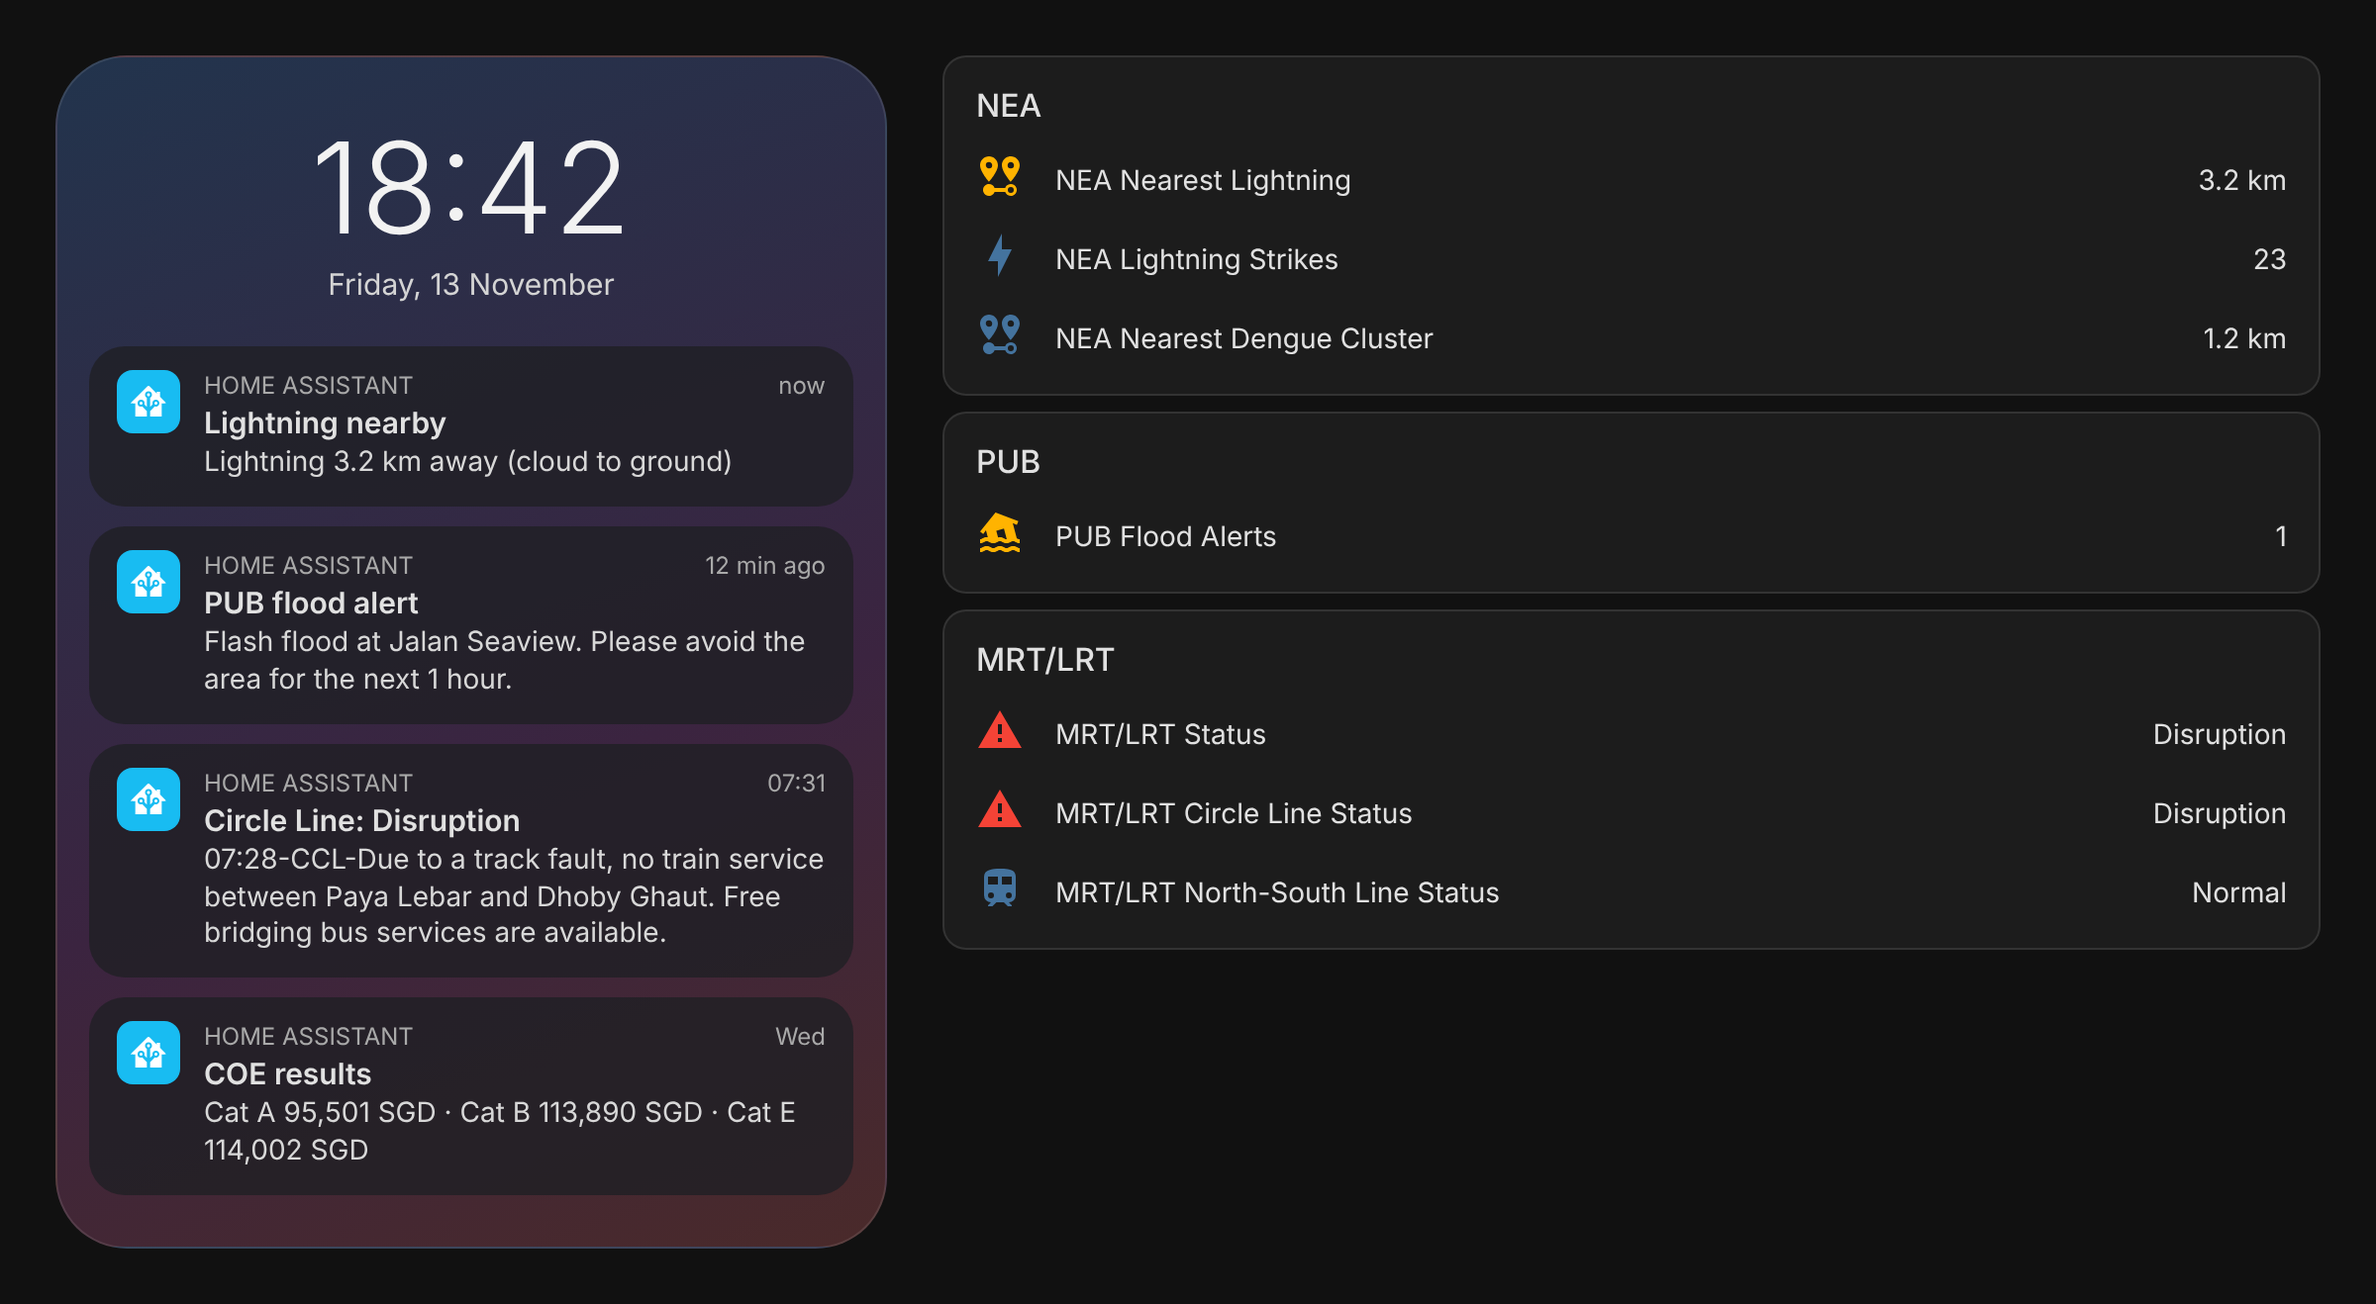
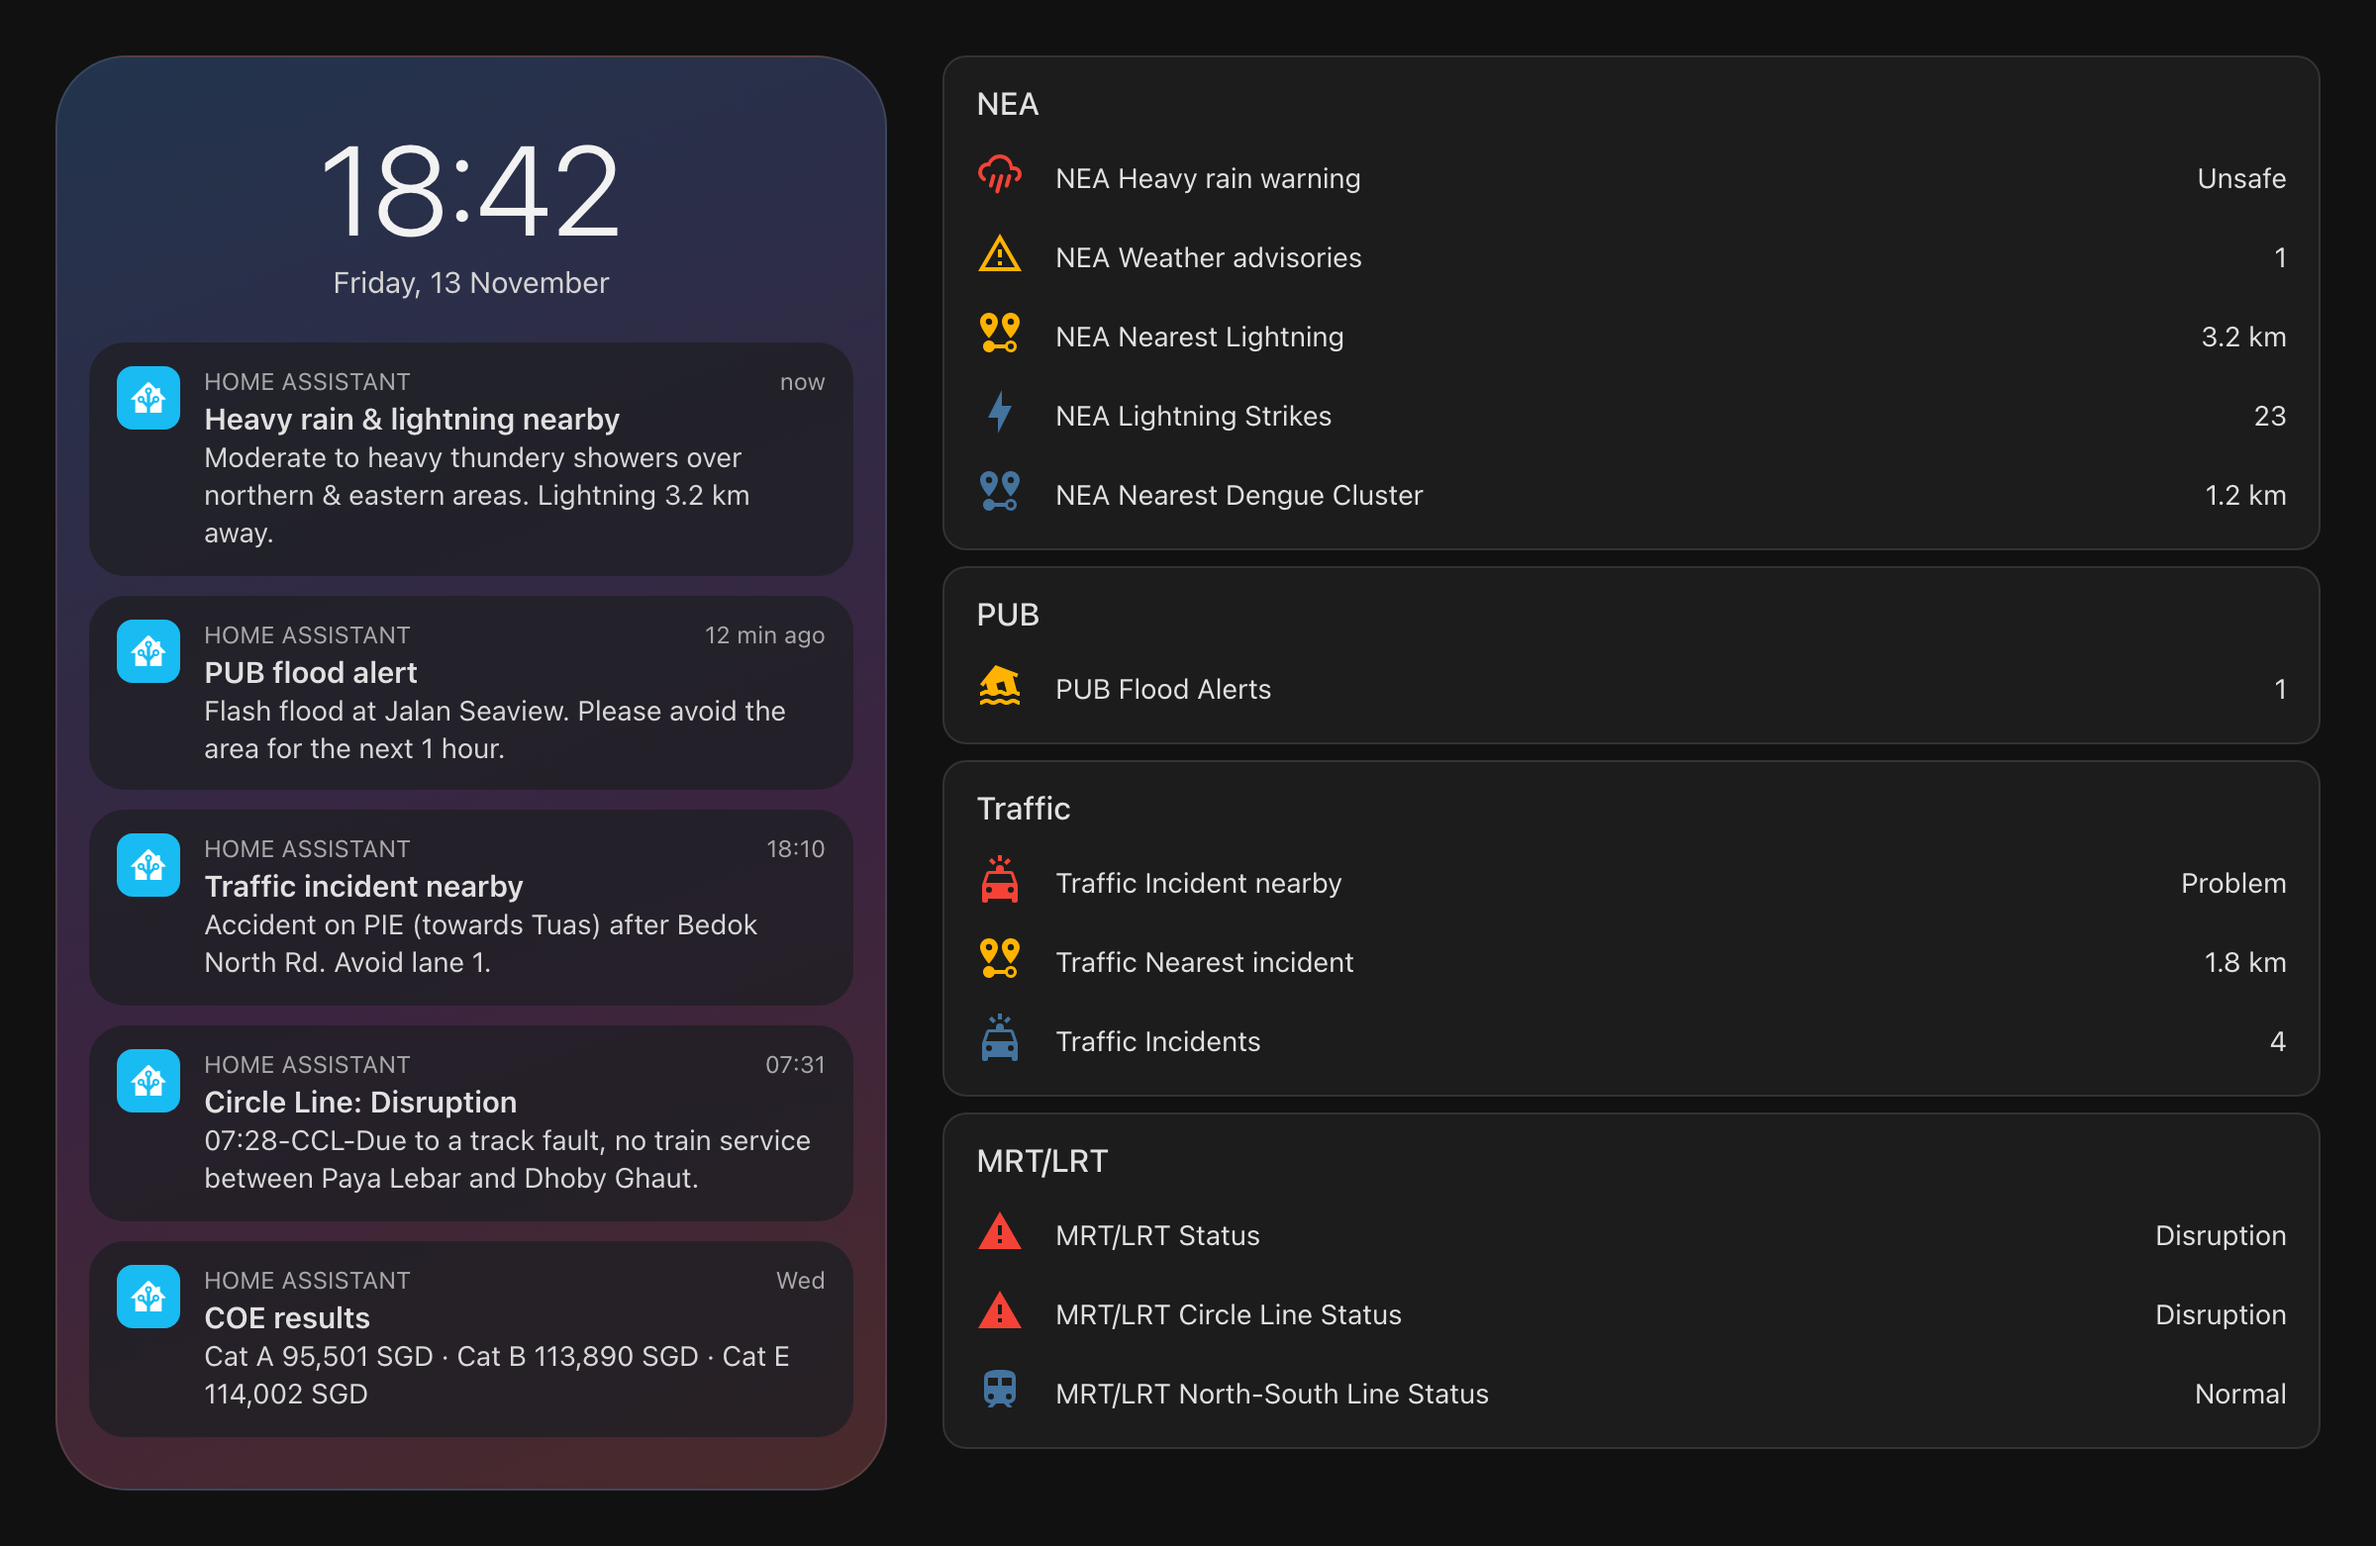
docs: add heavy rain warning, advisories, tide level and traffic incidents to README screenshots

diff --git a/docs/mockups/alerts.html b/docs/mockups/alerts.html
@@ -22,13 +22,16 @@
     <div class="date">Friday, 13 November</div>
     <div class="note"><span class="app"><i m="mdiHomeAssistant"></i></span><div style="flex:1">
       <div class="top"><span>HOME ASSISTANT</span><span>now</span></div>
-      <b>Lightning nearby</b><p>Lightning 3.2 km away (cloud to ground)</p></div></div>
+      <b>Heavy rain &amp; lightning nearby</b><p>Moderate to heavy thundery showers over northern &amp; eastern areas. Lightning 3.2 km away.</p></div></div>
     <div class="note"><span class="app"><i m="mdiHomeAssistant"></i></span><div style="flex:1">
       <div class="top"><span>HOME ASSISTANT</span><span>12 min ago</span></div>
       <b>PUB flood alert</b><p>Flash flood at Jalan Seaview. Please avoid the area for the next 1 hour.</p></div></div>
     <div class="note"><span class="app"><i m="mdiHomeAssistant"></i></span><div style="flex:1">
+      <div class="top"><span>HOME ASSISTANT</span><span>18:10</span></div>
+      <b>Traffic incident nearby</b><p>Accident on PIE (towards Tuas) after Bedok North Rd. Avoid lane 1.</p></div></div>
+    <div class="note"><span class="app"><i m="mdiHomeAssistant"></i></span><div style="flex:1">
       <div class="top"><span>HOME ASSISTANT</span><span>07:31</span></div>
-      <b>Circle Line: Disruption</b><p>07:28-CCL-Due to a track fault, no train service between Paya Lebar and Dhoby Ghaut. Free bridging bus services are available.</p></div></div>
+      <b>Circle Line: Disruption</b><p>07:28-CCL-Due to a track fault, no train service between Paya Lebar and Dhoby Ghaut.</p></div></div>
     <div class="note"><span class="app"><i m="mdiHomeAssistant"></i></span><div style="flex:1">
       <div class="top"><span>HOME ASSISTANT</span><span>Wed</span></div>
       <b>COE results</b><p>Cat A 95,501 SGD · Cat B 113,890 SGD · Cat E 114,002 SGD</p></div></div>
@@ -36,12 +39,19 @@
 
   <div class="side">
     <div class="card"><div class="card-title">NEA</div><div class="rows">
+      <div class="row"><span class="ic" style="color:var(--red)"><i m="mdiWeatherPouring"></i></span><span class="label">NEA Heavy rain warning</span><span class="val">Unsafe</span></div>
+      <div class="row"><span class="ic" style="color:var(--amber)"><i m="mdiAlertOutline"></i></span><span class="label">NEA Weather advisories</span><span class="val">1</span></div>
       <div class="row"><span class="ic" style="color:var(--amber)"><i m="mdiMapMarkerDistance"></i></span><span class="label">NEA Nearest Lightning</span><span class="val">3.2 km</span></div>
       <div class="row"><span class="ic"><i m="mdiLightningBolt"></i></span><span class="label">NEA Lightning Strikes</span><span class="val">23</span></div>
       <div class="row"><span class="ic"><i m="mdiMapMarkerDistance"></i></span><span class="label">NEA Nearest Dengue Cluster</span><span class="val">1.2 km</span></div>
     </div></div>
     <div class="card"><div class="card-title">PUB</div><div class="rows">
       <div class="row"><span class="ic" style="color:var(--amber)"><i m="mdiHomeFlood"></i></span><span class="label">PUB Flood Alerts</span><span class="val">1</span></div>
+    </div></div>
+    <div class="card"><div class="card-title">Traffic</div><div class="rows">
+      <div class="row"><span class="ic" style="color:var(--red)"><i m="mdiCarEmergency"></i></span><span class="label">Traffic Incident nearby</span><span class="val">Problem</span></div>
+      <div class="row"><span class="ic" style="color:var(--amber)"><i m="mdiMapMarkerDistance"></i></span><span class="label">Traffic Nearest incident</span><span class="val">1.8 km</span></div>
+      <div class="row"><span class="ic"><i m="mdiCarEmergency"></i></span><span class="label">Traffic Incidents</span><span class="val">4</span></div>
     </div></div>
     <div class="card"><div class="card-title">MRT/LRT</div><div class="rows">
       <div class="row"><span class="ic" style="color:var(--red)"><i m="mdiAlert"></i></span><span class="label">MRT/LRT Status</span><span class="val">Disruption</span></div>

diff --git a/docs/mockups/hero.html b/docs/mockups/hero.html
@@ -60,8 +60,10 @@
           <div class="card tile"><span class="bubble" style="--c:var(--orange)"><i m="mdiWeatherSunnyAlert"></i></span><div><div class="name">UV exposure</div><div class="state">High</div></div></div>
           <div class="card tile"><span class="bubble" style="--c:var(--deep-orange)"><i m="mdiThermometerWater"></i></span><div><div class="name">WBGT</div><div class="state">31.4 °C</div></div></div>
           <div class="card tile"><span class="bubble" style="--c:var(--deep-orange)"><i m="mdiSunThermometerOutline"></i></span><div><div class="name">Heat stress</div><div class="state">Moderate</div></div></div>
-          <div class="card tile"><span class="bubble" style="--c:var(--amber)"><i m="mdiAlertOutline"></i></span><div><div class="name">Weather advisories</div><div class="state">0</div></div></div>
+          <div class="card tile"><span class="bubble" style="--c:var(--blue)"><i m="mdiWeatherPouring"></i></span><div><div class="name">Heavy rain</div><div class="state">Safe</div></div></div>
+          <div class="card tile"><span class="bubble" style="--c:var(--amber)"><i m="mdiAlertOutline"></i></span><div><div class="name">Advisories</div><div class="state">0</div></div></div>
           <div class="card tile"><span class="bubble" style="--c:var(--cyan)"><i m="mdiWaveArrowUp"></i></span><div><div class="name">Next tide</div><div class="state">High tide</div></div></div>
+          <div class="card tile"><span class="bubble" style="--c:var(--cyan)"><i m="mdiWavesArrowUp"></i></span><div><div class="name">Tide level</div><div class="state">2.9 m</div></div></div>
         </div>
 
         <div class="heading"><i m="mdiAirFilter"></i>Air quality</div>

diff --git a/docs/mockups/ha.css b/docs/mockups/ha.css
@@ -17,6 +17,7 @@
   --deep-orange: #ff6f22;
   --brown: #795548;
   --indigo: #3f51b5;
+  --cyan: #00bcd4;
   --sg-red: #EF3340;
 }
 * { box-sizing: border-box; margin: 0; padding: 0; }

diff --git a/README.md b/README.md
@@ -28,7 +28,7 @@
 </p>
 
 <p align="center">
-  <img src="images/hero.jpg" alt="Example Singapore dashboard: Bedok weather with a 4-day forecast, rainfall, wind, UV index and UV exposure, WBGT and heat stress, PSI gauge, 1-hour and 24-hour PM2.5, PM10, ozone and PSI by region, MRT/LRT line status, live Woodlands Causeway and Tuas Checkpoint camera stills, nearest lightning and dengue cluster distances, flood alerts, the current hawker centre closure, utility tariffs and COE prices" width="100%">
+  <img src="images/hero.jpg" alt="Example Singapore dashboard: Bedok weather with a 4-day forecast, rainfall, wind, UV index and UV exposure, WBGT and heat stress, heavy rain warning, weather advisories, next tide and tide level, PSI gauge, 1-hour and 24-hour PM2.5, PM10, ozone and PSI by region, MRT/LRT line status, live LTA traffic incidents and nearest incident distance, live Woodlands Causeway and Tuas Checkpoint camera stills, nearest lightning and dengue cluster distances, flood alerts, the current hawker centre closure, utility tariffs and COE prices" width="100%">
   <br>
   <sub>An example dashboard built only from Home Assistant's built-in cards. The integration provides the entities; <a href="examples/dashboard.yaml">this YAML</a> builds the dashboard. Camera stills are real LTA images.</sub>
 </p>
@@ -222,7 +222,7 @@ premise address.
 ## Recipes
 
 <p align="center">
-  <img src="images/alerts.png" alt="Phone lock screen with Home Assistant notifications for nearby lightning, a PUB flood alert, a Circle Line disruption and new COE results, next to the NEA, PUB and MRT/LRT sensors that triggered them" width="100%">
+  <img src="images/alerts.png" alt="Phone lock screen with Home Assistant notifications for heavy rain and nearby lightning, a PUB flood alert, a nearby traffic incident, a Circle Line disruption and new COE results, next to the NEA, PUB, Traffic and MRT/LRT sensors that triggered them" width="100%">
   <br>
   <sub>Notifications like these come from the blueprints and automations below.</sub>
 </p>
